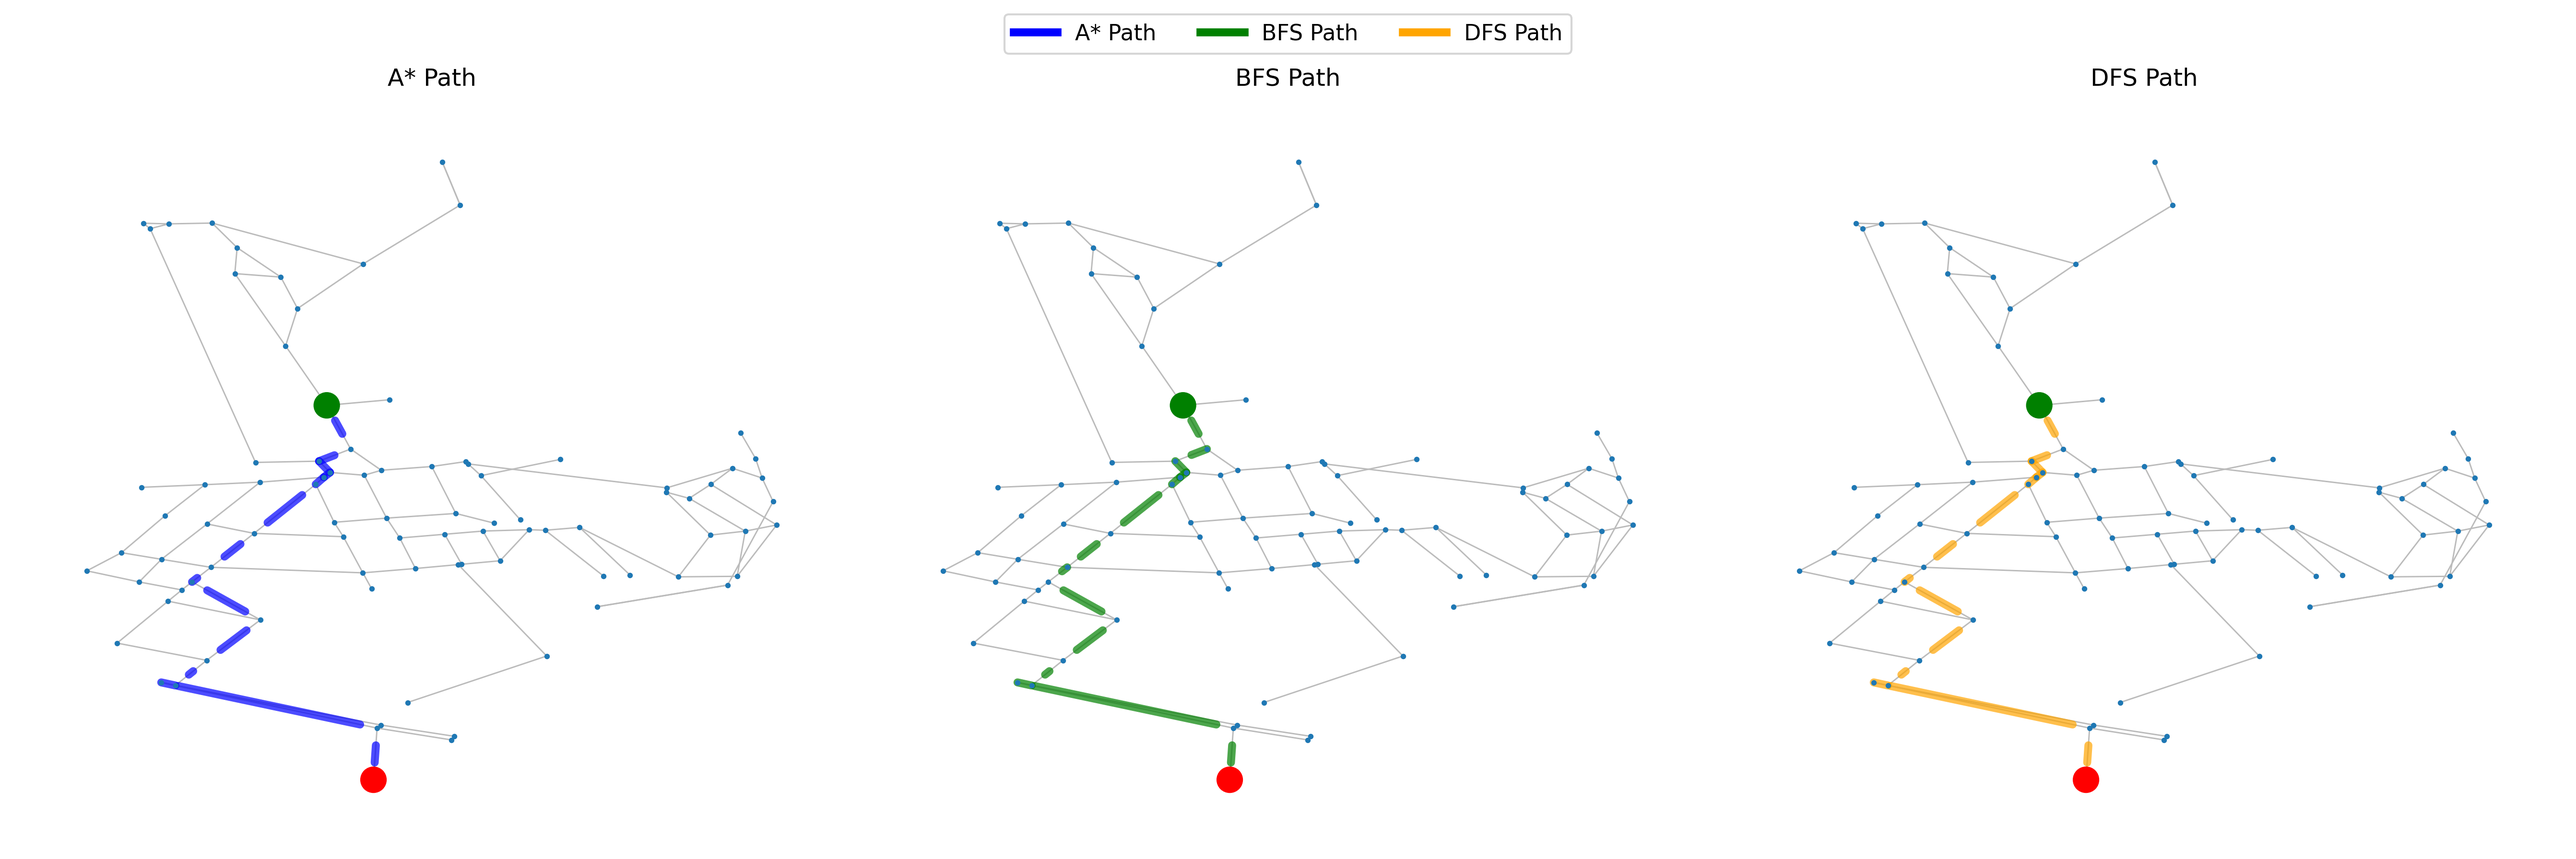
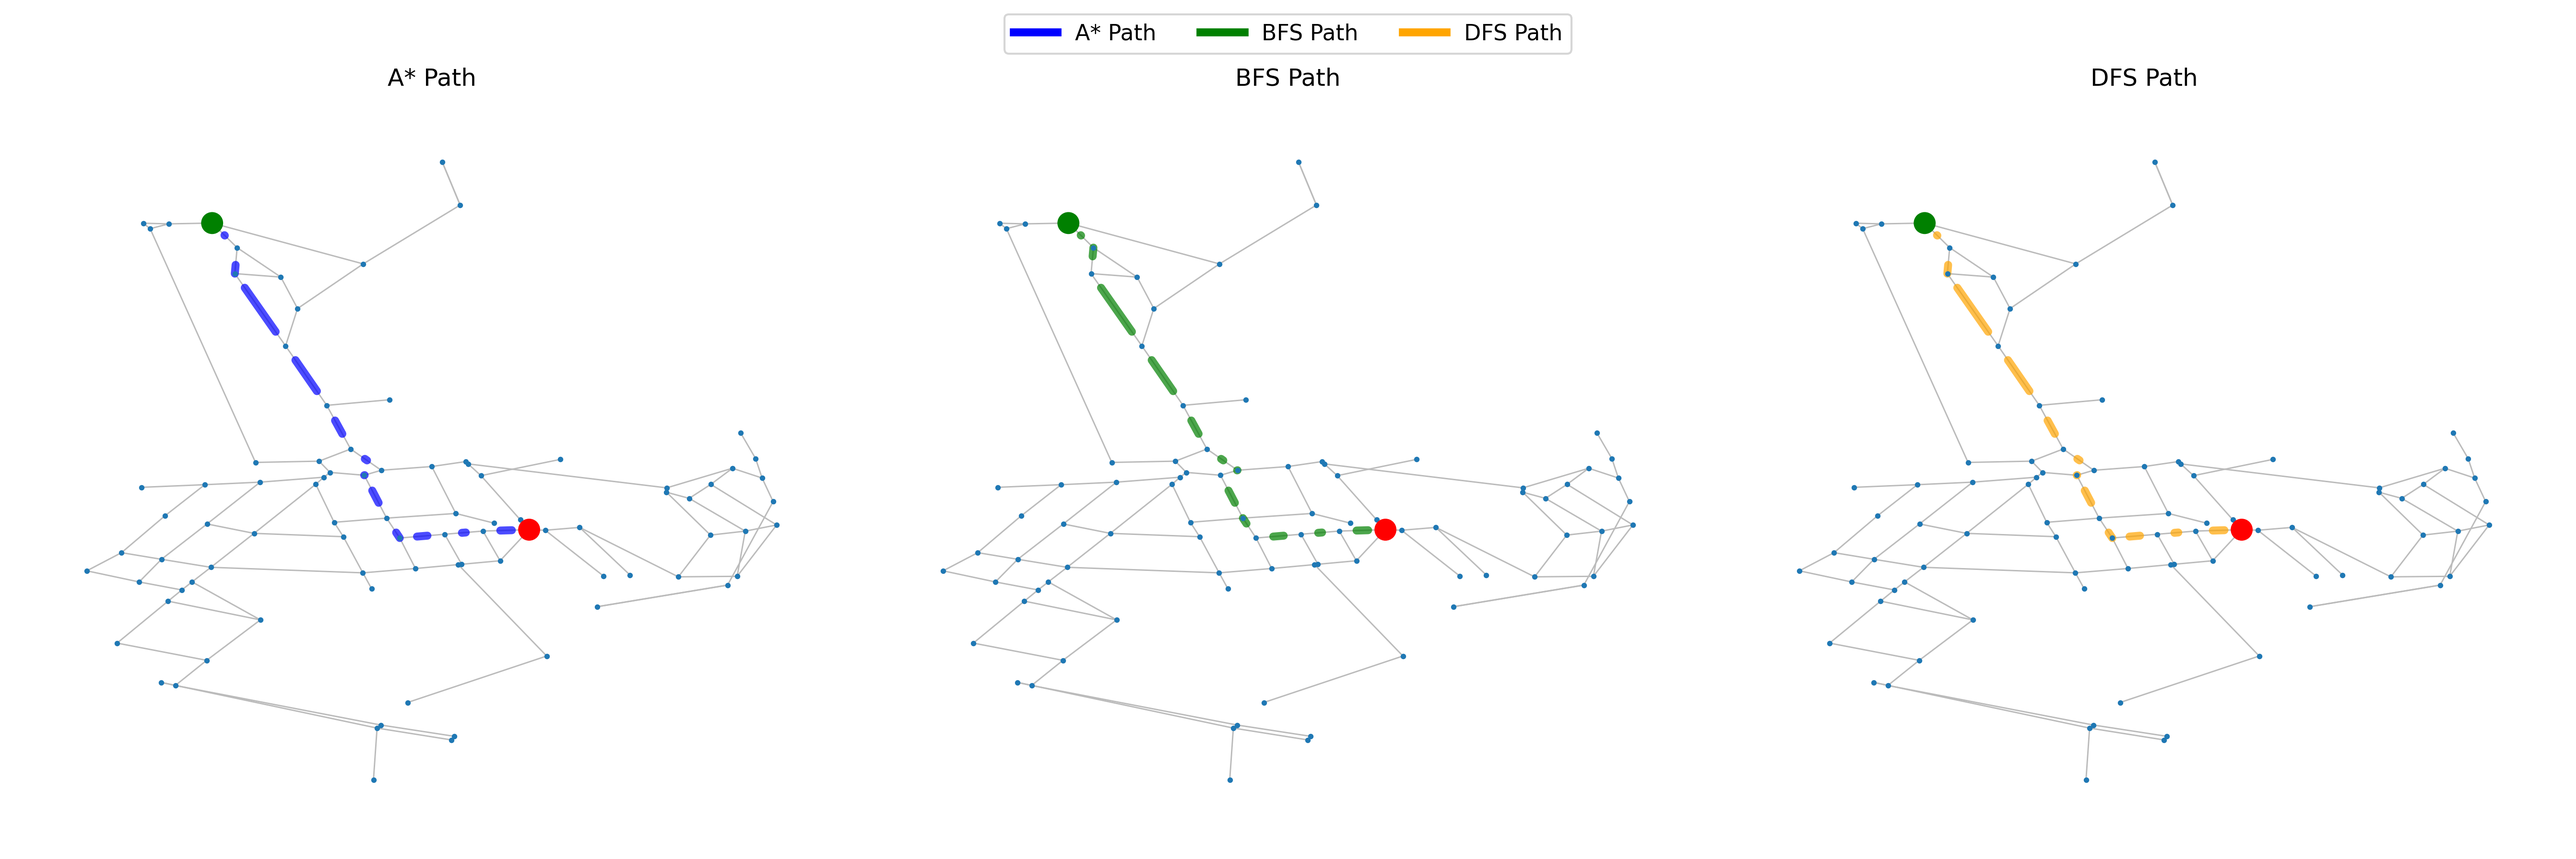
Modified changes

diff --git a/person3/visualization.py b/person3/visualization.py
@@ -1,8 +1,18 @@
+import sys
+import os
+
+# ADD PROJECT ROOT TO PATH  (VERY IMPORTANT)
+sys.path.append(os.path.dirname(os.path.dirname(os.path.abspath(__file__))))
+
 import networkx as nx
 import matplotlib.pyplot as plt
 import matplotlib.lines as mlines
 import math
+
 from matplotlib.animation import FuncAnimation
+
+from person1.astar import compute_astar_path
+#from person2.2 import run_bfs, run_dfs
 
 
 # WINDOW 1: MOUSE INTERACTION
@@ -49,7 +59,7 @@ def interactive_route_selection(G, pos):
                 G, pos,
                 nodelist=[state["start"]],
                 node_color="green",
-                node_size=120,
+                node_size=100,
                 ax=ax
             )
 
@@ -58,7 +68,7 @@ def interactive_route_selection(G, pos):
                 G, pos,
                 nodelist=[state["goal"]],
                 node_color="red",
-                node_size=120,
+                node_size=100,
                 ax=ax
             )
 
@@ -108,6 +118,21 @@ def animate_path(G, pos, path):
         ax=ax
     )
 
+    nx.draw_networkx_nodes(
+        G, pos,
+        nodelist=[path[0]],
+        node_color='green',
+        node_size=100,
+        ax=ax
+    )
+
+    nx.draw_networkx_nodes(
+        G, pos,
+        nodelist=[path[-1]],
+        node_color='red',
+        node_size=100,
+        ax=ax
+    )
     ax.set_title("A* Route Navigation")
     ax.axis("off")
 
@@ -160,7 +185,7 @@ def visualize_comparison(G, pos,start,goal,astar_path,bfs_path,dfs_path):
                            pos, 
                            nodelist=[start,goal], 
                            node_color=['green','red'], 
-                           node_size=150, 
+                           node_size=100, 
                            ax=ax)   
         
         ax.set_title(title)
@@ -185,7 +210,10 @@ def visualize_comparison(G, pos,start,goal,astar_path,bfs_path,dfs_path):
 
 if __name__ == "__main__":
 
-    G = nx.read_graphml("../data/mit_clean.graphml")
+    base_dir = os.path.dirname(os.path.dirname(os.path.abspath(__file__)))
+    file_path = os.path.join(base_dir, "data", "mit_clean.graphml")
+
+    G = nx.read_graphml(file_path)
 
     pos = {
         n: (float(G.nodes[n]['x']),
@@ -197,9 +225,17 @@ if __name__ == "__main__":
     start, goal = interactive_route_selection(G, pos)
 
     #------------------------------------RUN ALGORITHMS------------------------------------
-    astar_path = nx.shortest_path(G, start, goal)                           # to be changed to actual A* path later
-    bfs_path = astar_path[::-1]                                            # to be changed to actual BFS path later
-    dfs_path = astar_path[:]                                                # to be changed to actual DFS path later
+    try:
+        astar_path = compute_astar_path(G, start, goal) # to be changed to actual A* path later
+    except:
+        print("No path found — try again")
+                         
+    
+    bfs_path = astar_path[::-1]                                   # to be changed to actual BFS path later
+    dfs_path = astar_path[:]  # to be changed to actual DFS path later
+    
+    
+                                                  
 
 
     #------------------------------------WINDOW 2: A* ANIMATION------------------------------------
